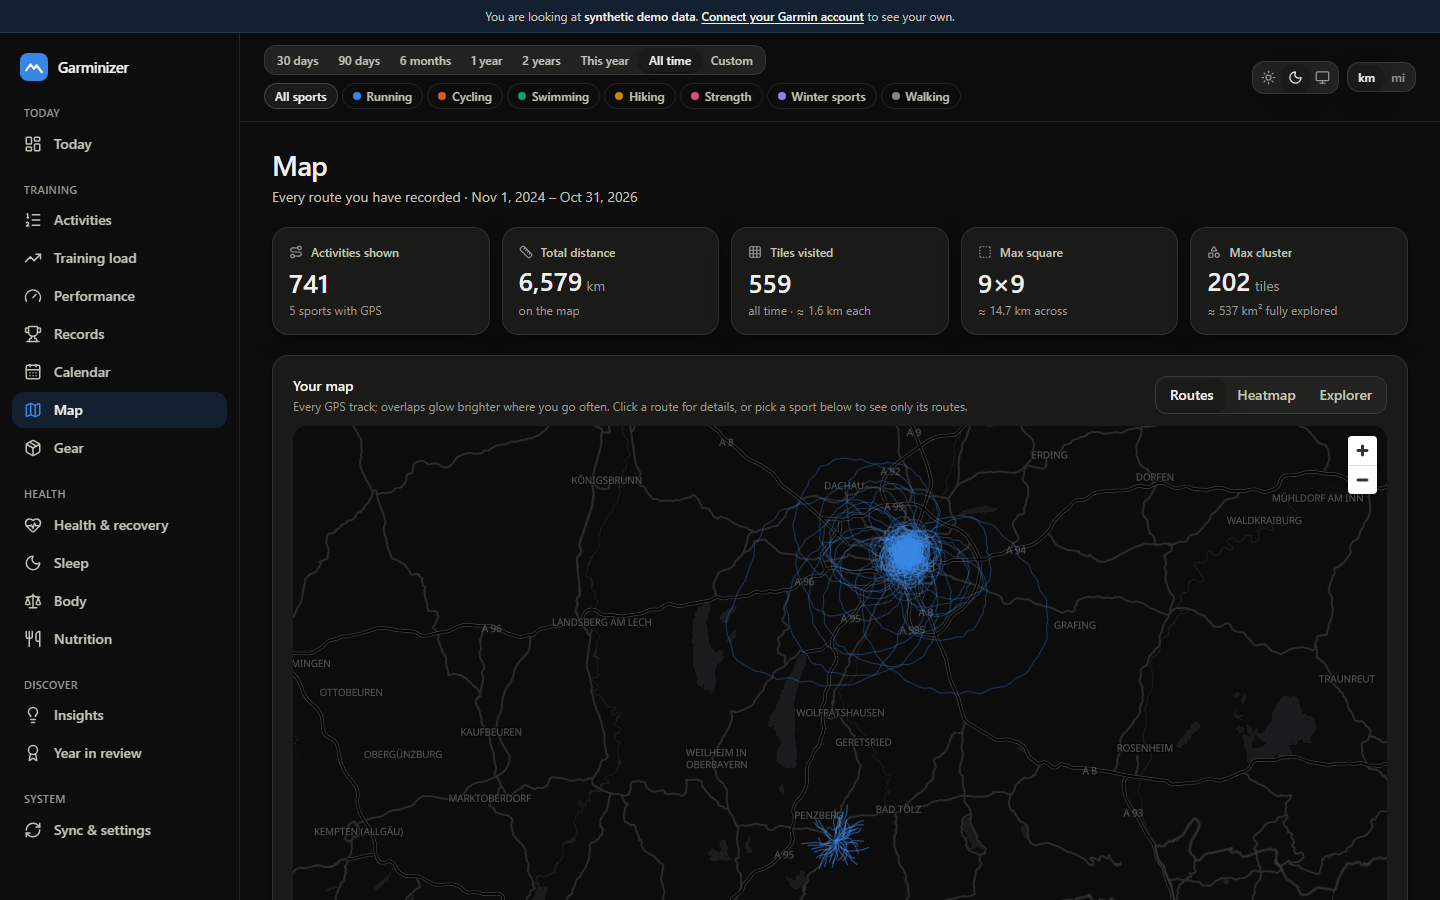
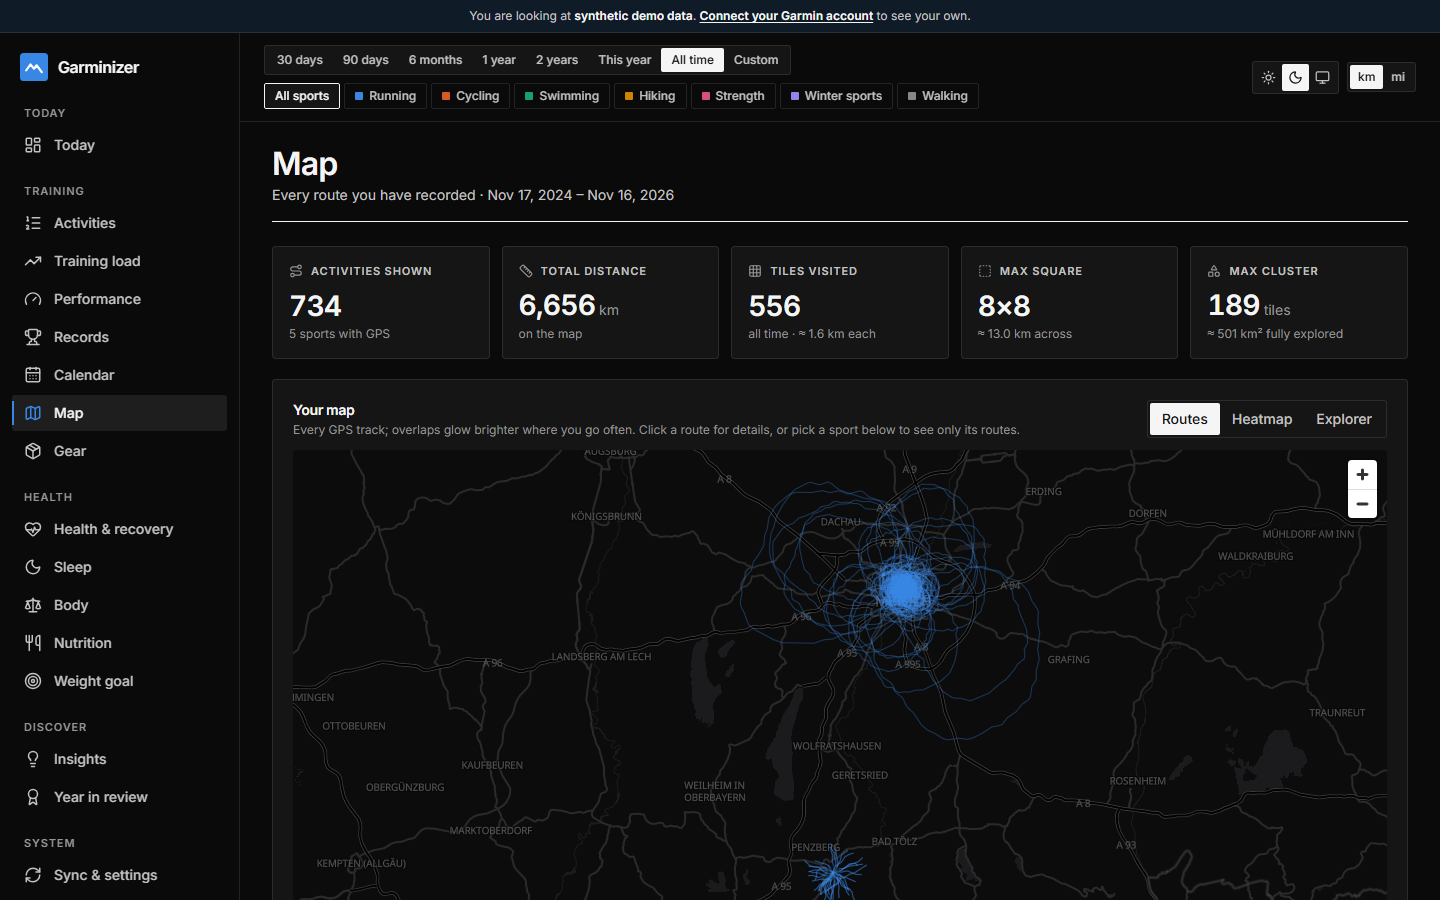
docs: install from the published image, changelog, refreshed screenshots
Quick start and installation guide use `docker compose pull` (building from
source stays documented), describe the welcome screen and the release
procedure. README screenshots regenerated from the demo database (the sidebar
now has the weight goal) with weight goal and performance added.

diff --git a/web/e2e/readme.spec.ts b/web/e2e/readme.spec.ts
@@ -14,6 +14,8 @@ const SHOTS: { name: string; path: string; scrollTo?: string }[] = [
   { name: "health", path: "/health?preset=90d" },
   { name: "sleep", path: "/sleep?preset=90d" },
   { name: "nutrition", path: "/nutrition?preset=90d" },
+  { name: "goal", path: "/goal" },
+  { name: "performance", path: "/performance?preset=365d" },
   { name: "records", path: "/records?preset=all" },
   { name: "map", path: "/map?preset=all" },
   { name: "insights", path: "/insights?preset=365d" },

diff --git a/docs/installation.md b/docs/installation.md
@@ -2,7 +2,7 @@
 
 Garminizer runs as three Docker containers on your own computer: a PostgreSQL 17 database, the
 web app and a background worker that syncs with Garmin Connect. Setting it up takes about ten
-minutes plus the first image build.
+minutes.
 
 - [1. Requirements](#1-requirements)
 - [2. Get the code](#2-get-the-code)
@@ -21,7 +21,8 @@ Just want to look around first? The [demo](#try-the-demo-first) needs no Garmin 
 |---|---|
 | **Docker** | [Docker Desktop](https://www.docker.com/products/docker-desktop/) on Windows 10/11 and macOS, or Docker Engine with the Compose plugin on Linux. Compose **2.24 or newer** (`docker compose version`). On Windows, Docker Desktop sets up WSL 2 for you. |
 | **Git** | to download and update the code ([git-scm.com](https://git-scm.com/downloads)). |
-| **Disk** | about 2 GB for the images and build cache, plus your data: typically well under 1 GB, even for many years of activities with second-by-second samples. |
+| **Disk** | about 1 GB for the images (2 GB if you build the image yourself), plus your data: typically well under 1 GB, even for many years of activities with second-by-second samples. |
+| **Computer** | x86-64, or ARM64 (Apple Silicon, Raspberry Pi 4/5 with a 64-bit system; built for it, [not yet tested on real hardware](faq.md)). |
 | **A Garmin Connect account** | the one your watch syncs to. Two-factor authentication is supported. |
 
 Python is optional: it only makes step 3 a one-liner.
@@ -71,11 +72,13 @@ Everything else can stay as it is; [configuration](configuration.md) explains ev
 ## 4. Start Garminizer
 
 ```bash
-docker compose up -d --build
+docker compose pull
+docker compose up -d
 ```
 
-The first run builds the image (5–10 minutes, depending on your computer and connection) and then
-starts the database, app and worker. Check that all three are up:
+`pull` downloads the ready-made image of the latest release; `up` starts the database, app and
+worker. To build the image from the source code instead (5–10 minutes), skip `pull` and run
+`docker compose up -d --build`. Check that all three are up:
 
 ```bash
 docker compose ps
@@ -86,9 +89,9 @@ docker compose ps
 
 ## 5. Connect your Garmin account
 
-In the app, open **Sync & settings**, enter your Garmin e-mail and password under **Garmin
-connection** and click **Connect Garmin**. If your account uses two-factor authentication, Garmin
-sends you a code; enter it when the app asks for it.
+A new installation opens on a welcome screen. Enter your Garmin e-mail and password there and
+click **Connect Garmin**. If your account uses two-factor authentication, Garmin sends you a code;
+enter it when the app asks for it. (Later you find the connection under **Sync & settings**.)
 
 Garminizer does not store your password: Garmin hands out login tokens, which are saved in
 `data/tokens` and renewed automatically. Prefer the terminal? This does the same:
@@ -99,10 +102,11 @@ docker compose exec app garminizer login
 
 ## 6. The first sync
 
-The worker starts right after you connect. It fetches the last days first, so the dashboards show
-today's data within minutes, and then works backwards through your whole history in short,
-polite batches. For several years of data this takes a few hours; the dashboards fill up as it
-goes. Progress and history coverage are shown on **Sync & settings**. To watch the log:
+The sync starts right after you connect. It fetches the last days first; the welcome screen shows
+the progress and switches to your dashboards within minutes. Then the worker goes backwards
+through your whole history in short, polite batches. For several years of data this takes a few
+hours; the dashboards fill up as it goes, and a note at the top says how far back the data
+reaches. Progress and history coverage are shown on **Sync & settings**. To watch the log:
 
 ```bash
 docker compose logs -f worker
@@ -126,16 +130,18 @@ worker catches up on start.
 
 ## Update
 
-Back up, pull the new version and rebuild. Database migrations run automatically when the app
-starts.
+Back up, then fetch the new version. Database migrations run automatically when the app starts.
 
 ```bash
 docker compose exec worker garminizer backup create
 git pull
-docker compose up -d --build
+docker compose pull
+docker compose up -d
 ```
 
-Release notes are in the [commit history](https://github.com/wintermute422/garminizer/commits/main).
+If you build the image yourself, replace the last two commands with
+`docker compose up -d --build`. What changed is in the [changelog](../CHANGELOG.md). To stay on
+one release, set `GARMINIZER_VERSION` (for example `0.1.0`) in `.env`.
 
 ## Stop and uninstall
 
@@ -151,7 +157,8 @@ folder. This deletes the database permanently.
 ## Try the demo first
 
 ```bash
-docker compose -f compose.demo.yml up -d --build
+docker compose -f compose.demo.yml pull
+docker compose -f compose.demo.yml up -d
 ```
 
 Open **[http://localhost:8430](http://localhost:8430)**: two years of a simulated athlete (the
@@ -164,6 +171,7 @@ containers and never touches your real data. Remove it with
 | Problem | Fix |
 |---|---|
 | `required variable POSTGRES_PASSWORD is missing` / `set POSTGRES_PASSWORD in .env` | `.env` is missing or has no password; see [step 3](#3-create-your-settings-file). Run the commands inside the `garminizer` folder. |
+| `docker compose pull` answers `denied` or `not found` for the `garminizer` image | The image could not be downloaded (no release for your platform yet, or the registry is unreachable). Build it instead: `docker compose up -d --build`. |
 | An error about `env_file` (`path` / `required` not allowed) | Your Docker Compose is too old; update Docker Desktop or the Compose plugin to 2.24+. |
 | `port is already allocated` / `address already in use` | Another program uses 8420 (app) or 55433 (database). Set `APP_PORT=8421` or `DB_PORT=55434` in `.env` and run `docker compose up -d` again. |
 | `localhost:8420` does not load | `docker compose ps` shows the state; `docker compose logs app` shows why the app is not healthy. |

diff --git a/README.md b/README.md
@@ -61,7 +61,8 @@ Dark and light themes, metric and imperial units, works on phones, every view sh
 | ![Health & recovery](docs/screenshots/health-light.png) | ![Sleep](docs/screenshots/sleep-dark.png) |
 | ![Records](docs/screenshots/records-light.png) | ![Map](docs/screenshots/map-dark.png) |
 | ![Insights](docs/screenshots/insights-dark.png) | ![Calendar](docs/screenshots/calendar-light.png) |
-| ![Nutrition](docs/screenshots/nutrition-light.png) | ![Year in review](docs/screenshots/year-dark.png) |
+| ![Nutrition](docs/screenshots/nutrition-light.png) | ![Weight goal](docs/screenshots/goal-dark.png) |
+| ![Performance](docs/screenshots/performance-light.png) | ![Year in review](docs/screenshots/year-dark.png) |
 
 ## Quick start
 You need [Docker Desktop](https://www.docker.com/products/docker-desktop/) (Windows, macOS) or
@@ -71,15 +72,17 @@ Docker Engine with Compose 2.24+ (Linux), and Git. Works the same in PowerShell 
 git clone https://github.com/wintermute422/garminizer.git
 cd garminizer
 python3 scripts/init_env.py --tz Europe/Berlin    # creates .env with random secrets (Windows: py)
-docker compose up -d --build                      # first build: 5–10 minutes
+docker compose pull                               # ready-made image for x86-64 and ARM64
+docker compose up -d
 ```
 
-No Python? `cp .env.example .env` and set `POSTGRES_PASSWORD` and `TZ` in it instead.
+No Python? `cp .env.example .env` and set `POSTGRES_PASSWORD` and `TZ` in it instead. Prefer to
+build the image yourself? Skip the pull and run `docker compose up -d --build` (5–10 minutes).
 
-Open **http://localhost:8420** → **Sync & settings** → **Connect Garmin** and sign in with your
-Garmin account (two-factor codes are supported). The worker syncs the last days first, then
-works back through your whole history while the dashboards fill up. Afterwards it syncs every
-two hours and writes a nightly backup to `data/backups`.
+Open **http://localhost:8420**: the welcome screen asks for your Garmin sign-in (two-factor codes
+are supported) and shows the first sync. The worker syncs the last days first, so your dashboards
+appear within minutes, then works back through your whole history. Afterwards it syncs every two
+hours and writes a nightly backup to `data/backups`.
 
 The **[installation guide](docs/installation.md)** walks through every step, autostart, updates,
 uninstalling and troubleshooting. [Configuration & operations](docs/configuration.md) covers phone
@@ -87,7 +90,8 @@ access on your LAN, backups, restore and all settings.
 
 ## Try the demo (no Garmin account needed)
 ```bash
-docker compose -f compose.demo.yml up -d --build
+docker compose -f compose.demo.yml pull
+docker compose -f compose.demo.yml up -d
 ```
 Open **http://localhost:8430** — two years of a simulated athlete (training plan with races,
 illness and holidays; sleep, HRV and readiness respond to training load). The first start needs a
@@ -147,7 +151,7 @@ GROUP BY 1 ORDER BY 1 DESC LIMIT 12;
 ## Documentation
 | | |
 |---|---|
-| **Use it** | [Installation](docs/installation.md) · [Configuration & operations](docs/configuration.md) · [Claude Desktop meal logging](docs/claude-desktop.md) · [FAQ](docs/faq.md) |
+| **Use it** | [Installation](docs/installation.md) · [Configuration & operations](docs/configuration.md) · [Claude Desktop meal logging](docs/claude-desktop.md) · [FAQ](docs/faq.md) · [Changelog](CHANGELOG.md) |
 | **Understand it** | [Architecture](docs/architecture.md) · [Data model](docs/data-model.md) · [Metrics](docs/metrics.md) |
 | **Build on it** | [Contributing](CONTRIBUTING.md) · [Development harness](docs/development.md) · [Reusable harness template](docs/harness/README.md) · [Security](SECURITY.md) |
 

diff --git a/docs/development.md b/docs/development.md
@@ -29,4 +29,22 @@ Enable the git hooks once per clone: `git config core.hooksPath .githooks`.
 
 ## Demo data for screenshots
 Screenshots in the README come from `scripts/e2e.sh` runs on the deterministic demo database
-(`garminizer_e2e`, seed 42) — never from real data.
+(`garminizer_e2e`, seed 42) — never from real data. `scripts/screenshots.sh` writes them with their
+manifest; `scripts/demo_tour.sh` records a one-minute tour video (`artifacts/demo-tour.webm`, plus
+`.mp4` when ffmpeg is installed) the same way. Both refuse a database that is not the demo. For
+pages that depend on today's date (weight goal), seed a separate demo database that ends today:
+`E2E_DATABASE_URL=…/garminizer_shots_e2e E2E_END=$(date +%F) bash scripts/screenshots.sh`.
+
+## Releasing
+1. On a `chore/` branch: set the new version in `pyproject.toml` and
+   `backend/garminizer/__init__.py`, and add a dated `## [X.Y.Z] - YYYY-MM-DD` section to
+   `CHANGELOG.md`. `python scripts/release_notes.py --check` (part of `scripts/check.sh` and CI)
+   fails when the three disagree. Merge the PR.
+2. Tag the merge commit on `main` and push the tag: `git tag vX.Y.Z` and
+   `git push origin vX.Y.Z`. The pre-push hook only accepts new `v*` tags.
+3. `.github/workflows/release.yml` checks that the tag is on `main` and matches the version,
+   builds the image for x86-64 and ARM64, pushes `ghcr.io/<owner>/garminizer:X.Y.Z`, `:X.Y` and
+   `:latest`, and creates the GitHub release from the changelog section.
+
+The first time, make the package public once (GitHub → Packages → garminizer → Package settings →
+Change visibility); new packages start private and `docker compose pull` answers `denied`.

diff --git a/CLAUDE.md b/CLAUDE.md
@@ -53,6 +53,9 @@ Self-hosted Garmin Connect data warehouse with dashboards: Garmin Connect (unoff
 | `scripts/init_env.py [--tz Zone]` | creates `.env` from `.env.example` with random secrets; never prints them; refuses to overwrite |
 | `scripts/screenshots.sh` | README screenshots from the demo e2e DB only (refuses non-demo), writes MANIFEST.sha256 |
 | `scripts/gen_badges.sh` | README badges from shields.io into `docs/badges/` (by hand, needs network); the README never hot-links shields.io/camo, which privacy filters block |
+| `scripts/release_notes.py --check \| vX.Y.Z` | `pyproject.toml`, `garminizer.__version__` and a dated `CHANGELOG.md` section agree (check.sh, CI); with a tag it prints that section for the GitHub release |
+| `.github/workflows/release.yml` | on a `v*` tag from main: multi-arch image to `ghcr.io/<owner>/garminizer` + GitHub release. Tagging is a release: only with explicit user approval |
+| `scripts/demo_tour.sh` | announcement video from the demo e2e DB only (refuses non-demo) → `artifacts/demo-tour.webm` (+ `.mp4` with ffmpeg) |
 | `scripts/e2e_dev.sh API_PORT WEB_PORT "page x"` | same checks against Vite dev on private ports (parallel page work, no shared build) |
 
 ## Git workflow

diff --git a/docs/faq.md b/docs/faq.md
@@ -36,13 +36,16 @@ with all daily metrics.
 `garmin.raw_payload`.
 
 **Can I try it without a Garmin account?**
-Yes: `docker compose -f compose.demo.yml up -d --build` starts a separate demo on
+Yes: `docker compose -f compose.demo.yml pull` and `docker compose -f compose.demo.yml up -d`
+start a separate demo on
 http://localhost:8430 with two years of synthetic data (see [installation](installation.md#try-the-demo-first)).
 It has its own database; Garminizer never mixes demo and real data.
 
 **Does it run on a Raspberry Pi or a NAS?**
-Anything that runs Docker Compose 2.24+ should work. It is tested on x86-64 Windows (Docker
-Desktop) and Linux (CI); reports from macOS and ARM boards are welcome.
+Anything that runs Docker Compose 2.24+ should work. Every release ships one image for x86-64
+and ARM64 (Apple Silicon, Raspberry Pi 4/5 with a 64-bit system). It is tested on x86-64 Windows
+(Docker Desktop) and Linux (CI); the ARM64 image is built by CI but not yet tested on real
+hardware, so reports from macOS and ARM boards are welcome.
 
 **Imperial units?**
 Toggle `km`/`mi` in the top bar (defaults to your Garmin unit setting).

diff --git a/docs/configuration.md b/docs/configuration.md
@@ -22,12 +22,15 @@ After changing `.env`, apply it with `docker compose up -d`.
 | `GARMINIZER_DATA` | `./data` | host folder for tokens and backups (Docker) |
 | `MAP_STYLE_URL`, `MAP_STYLE_URL_DARK` | OpenFreeMap positron / dark | MapLibre style URLs |
 | `DEMO_PORT` | `8430` | port of the demo stack (`compose.demo.yml`) |
+| `GARMINIZER_VERSION` | `latest` | release that `docker compose pull` downloads; set e.g. `0.1.0` to stay on one ([changelog](../CHANGELOG.md)) |
 
 ## Common tasks
 Run these inside the `garminizer` folder (PowerShell, Terminal or any shell):
 
 ```bash
-docker compose up -d --build              # start / update
+docker compose pull                       # download the latest release
+docker compose up -d                      # start / apply a new image or changed settings
+docker compose up -d --build              # instead of pull: build the image from source
 docker compose logs -f worker             # watch syncing
 docker compose exec worker garminizer sync          # sync now
 docker compose exec worker garminizer verify        # compare DB with Garmin
